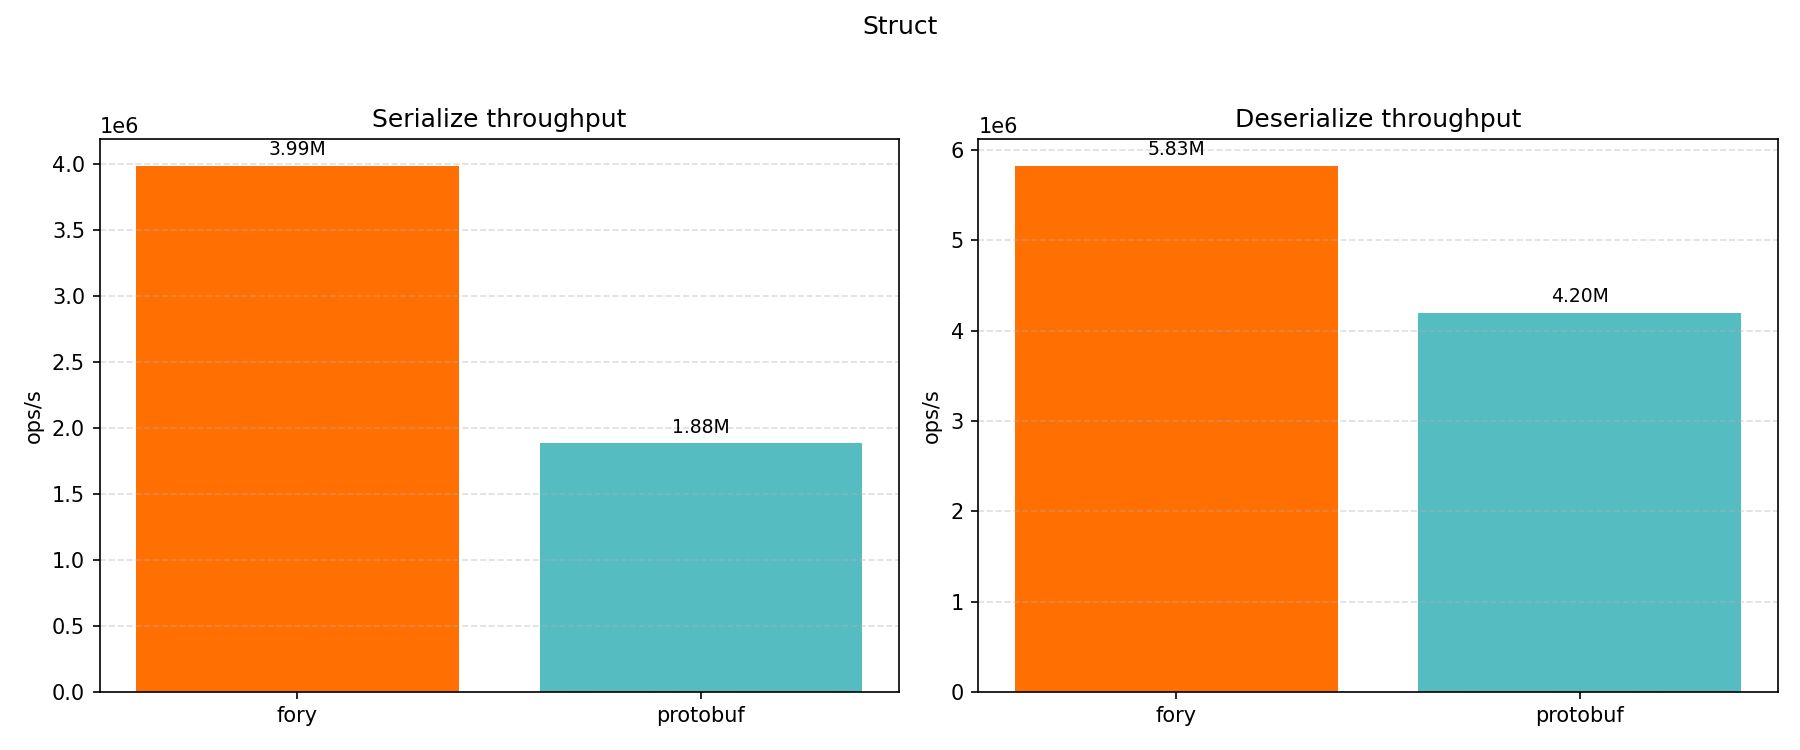
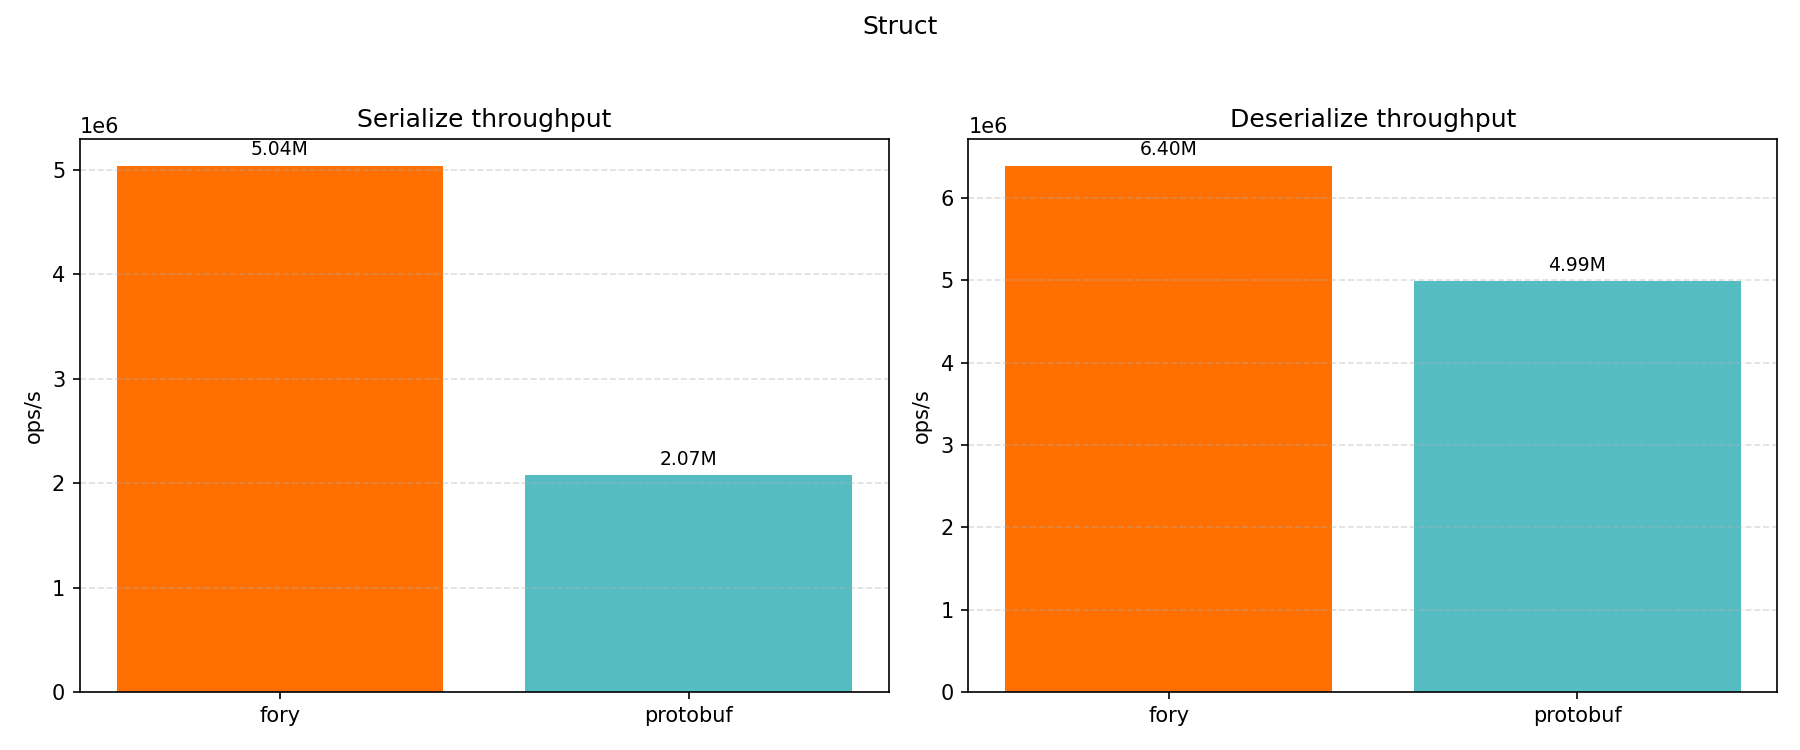
🔄 synced local 'docs/benchmarks/' with remote 'docs/benchmarks/'

diff --git a/docs/benchmarks/dart/README.md b/docs/benchmarks/dart/README.md
@@ -4,17 +4,17 @@ This benchmark compares serialization and deserialization throughput for Apache 
 
 ## Hardware and Runtime Info
 
-| Key                   | Value                                                            |
-| --------------------- | ---------------------------------------------------------------- |
-| Timestamp             | 2026-04-13T21:55:28.456625Z                                      |
-| OS                    | Version 26.2 (Build 25C56)                                       |
-| Host                  | Macbook-Air.local                                                |
-| CPU Cores (Logical)   | 8                                                                |
-| Memory (GB)           | 8.00                                                             |
-| Dart                  | 3.10.4 (stable) (Tue Dec 9 00:01:55 2025 -0800) on "macos_arm64" |
-| Samples per case      | 5                                                                |
-| Warmup per case (s)   | 1.0                                                              |
-| Duration per case (s) | 1.5                                                              |
+| Key                   | Value                                                             |
+| --------------------- | ----------------------------------------------------------------- |
+| Timestamp             | 2026-04-23T10:50:07.751368Z                                       |
+| OS                    | Version 15.7.2 (Build 24G325)                                     |
+| Host                  | MacBook-Pro.local                                                 |
+| CPU Cores (Logical)   | 12                                                                |
+| Memory (GB)           | 48.00                                                             |
+| Dart                  | 3.10.7 (stable) (Tue Dec 23 00:01:57 2025 -0800) on "macos_arm64" |
+| Samples per case      | 5                                                                 |
+| Warmup per case (s)   | 1.0                                                               |
+| Duration per case (s) | 1.5                                                               |
 
 ## Throughput Results
 
@@ -22,18 +22,18 @@ This benchmark compares serialization and deserialization throughput for Apache 
 
 | Datatype         | Operation   |  Fory TPS | Protobuf TPS | Fastest      |
 | ---------------- | ----------- | --------: | -----------: | ------------ |
-| Struct           | Serialize   | 3,989,432 |    1,884,653 | fory (2.12x) |
-| Struct           | Deserialize | 5,828,197 |    4,199,680 | fory (1.39x) |
-| Sample           | Serialize   | 1,649,722 |      500,167 | fory (3.30x) |
-| Sample           | Deserialize | 2,060,113 |      785,109 | fory (2.62x) |
-| MediaContent     | Serialize   |   800,876 |      391,235 | fory (2.05x) |
-| MediaContent     | Deserialize | 1,315,115 |      683,533 | fory (1.92x) |
-| StructList       | Serialize   | 1,456,396 |      367,506 | fory (3.96x) |
-| StructList       | Deserialize | 1,921,006 |      645,958 | fory (2.97x) |
-| SampleList       | Serialize   |   411,144 |       48,508 | fory (8.48x) |
-| SampleList       | Deserialize |   464,273 |      103,558 | fory (4.48x) |
-| MediaContentList | Serialize   |   186,870 |       77,029 | fory (2.43x) |
-| MediaContentList | Deserialize |   330,293 |      128,215 | fory (2.58x) |
+| Struct           | Serialize   | 5,041,693 |    2,073,839 | fory (2.43x) |
+| Struct           | Deserialize | 6,395,290 |    4,991,881 | fory (1.28x) |
+| Sample           | Serialize   | 1,783,688 |      552,140 | fory (3.23x) |
+| Sample           | Deserialize | 2,124,197 |      934,794 | fory (2.27x) |
+| MediaContent     | Serialize   |   952,498 |      438,419 | fory (2.17x) |
+| MediaContent     | Deserialize | 1,649,039 |      737,340 | fory (2.24x) |
+| StructList       | Serialize   | 1,945,119 |      399,007 | fory (4.87x) |
+| StructList       | Deserialize | 2,119,403 |      764,832 | fory (2.77x) |
+| SampleList       | Serialize   |   475,413 |       52,512 | fory (9.05x) |
+| SampleList       | Deserialize |   508,939 |      116,236 | fory (4.38x) |
+| MediaContentList | Serialize   |   224,925 |       84,860 | fory (2.65x) |
+| MediaContentList | Deserialize |   387,070 |      154,392 | fory (2.51x) |
 
 ## Serialized Size (bytes)
 
